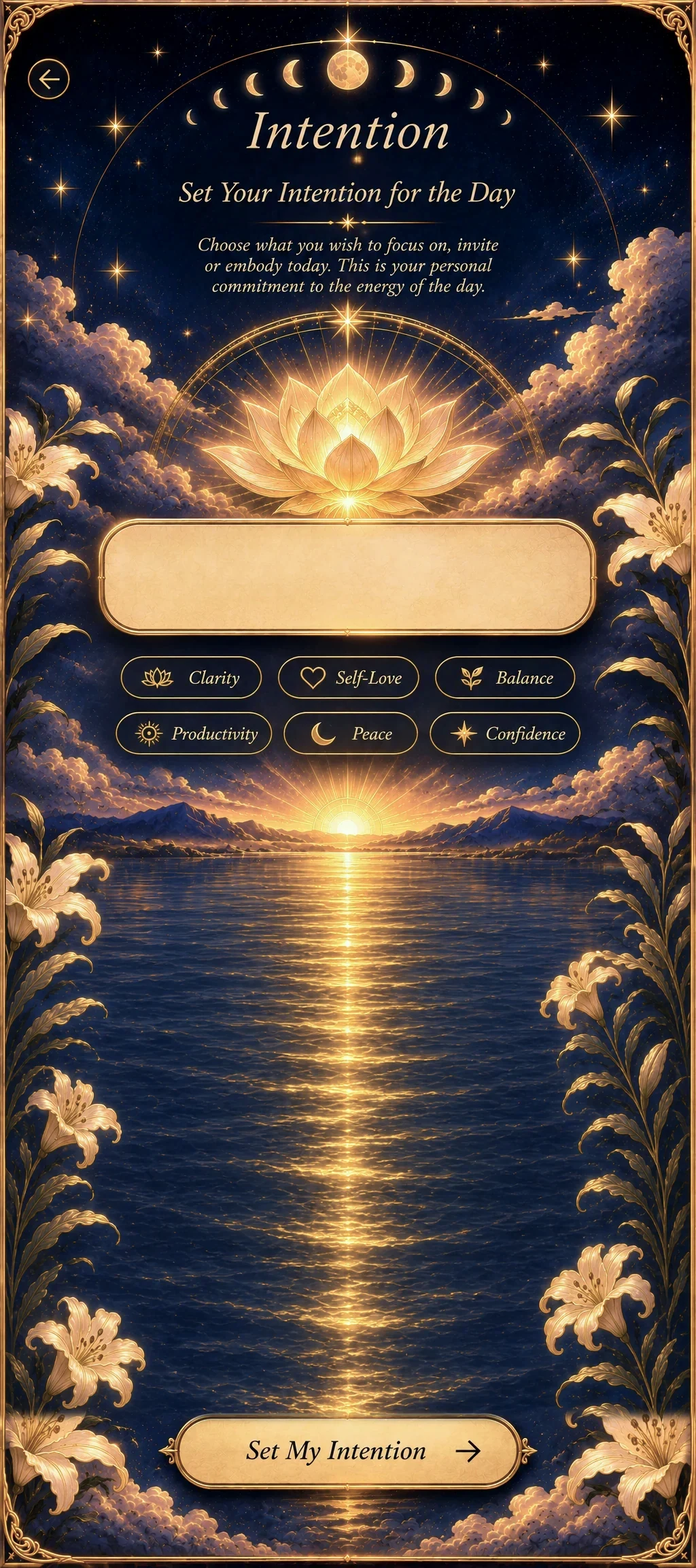
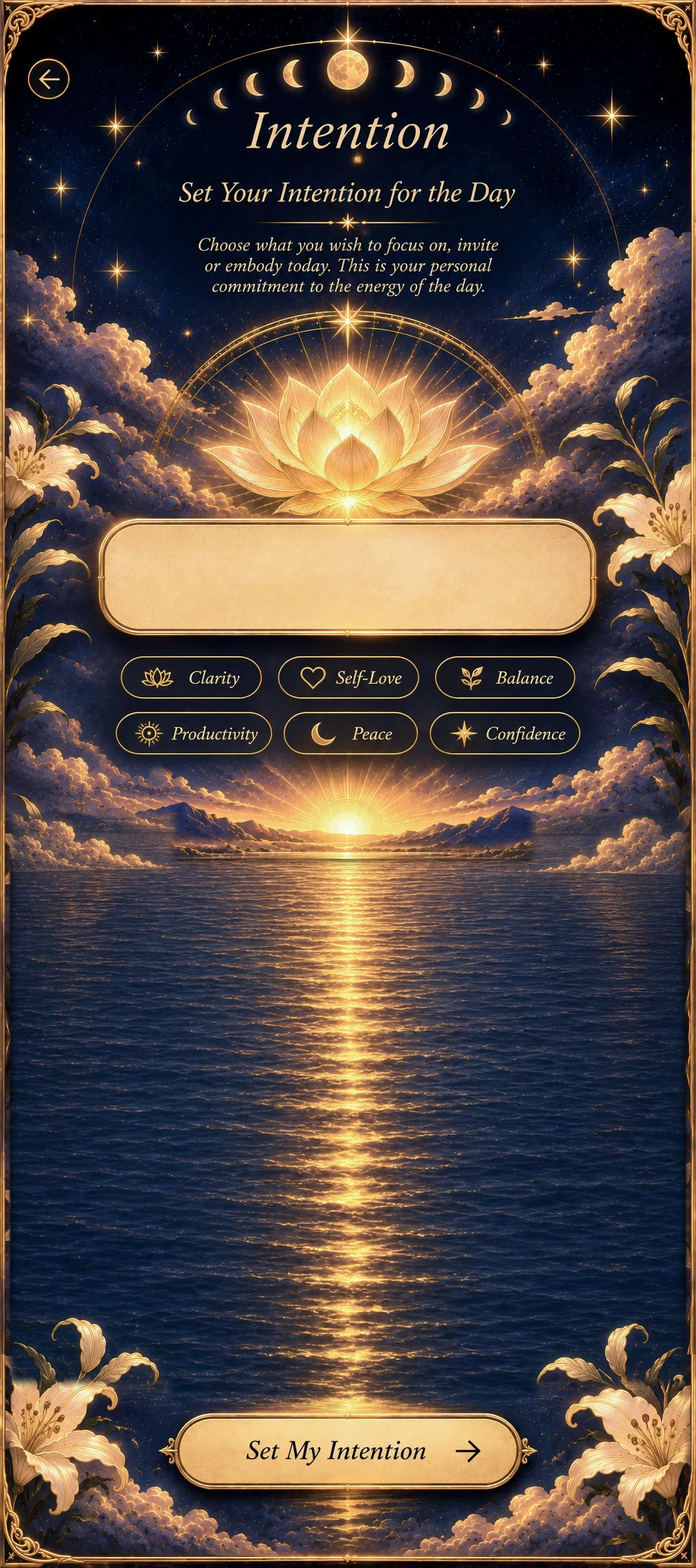
Intention: the lilies whole again. The lake added to fill the screen is open water only, the lilies complete inside the foot with the button, and the gold border runs the full height, so the join between the words and the foot always falls on water

Changed region(s): [[0.0, 0.5, 1.0, 0.9062]]

diff --git a/public/app.js b/public/app.js
@@ -3292,7 +3292,7 @@ const QS=[['What made you happy today?',30,668,225],['What did you learn?',266,6
 const VS='';
 // each full-screen painting: its width and height in its own pixels, the height of its foot (kept at the screen's
 // bottom, with the button), and how far down its words reach (the top scrolls if the screen cannot hold both)
-const PANE={rtw:[592,1312,162,0],rti:[1024,2304,314,1130],rtu:[512,1422,182,826],rtq:[512,1478,238,884]};
+const PANE={rtw:[592,1312,162,0],rti:[1024,2304,424,1130],rtu:[512,1422,182,826],rtq:[512,1478,238,884]};
 const pane=(id,label,cls,top,foot)=>`<section class="rt${cls}" id="${id}" aria-label="${label}"><div class="rsc"><div class="rsz"><div class="rcv rtop">${top}</div></div></div><div class="rft"><div class="rcv rcvf">${foot}</div></div></section>`;
 
 const day=()=>{const k=dkey();S.rit=S.rit||{};return S.rit[k]||{}};
